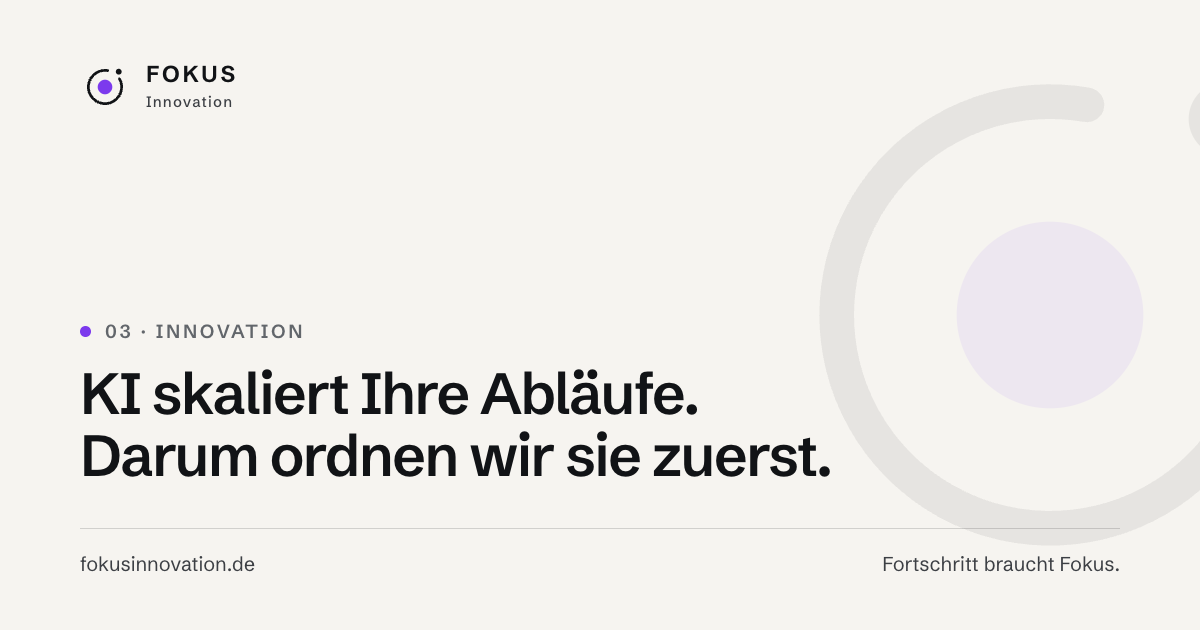
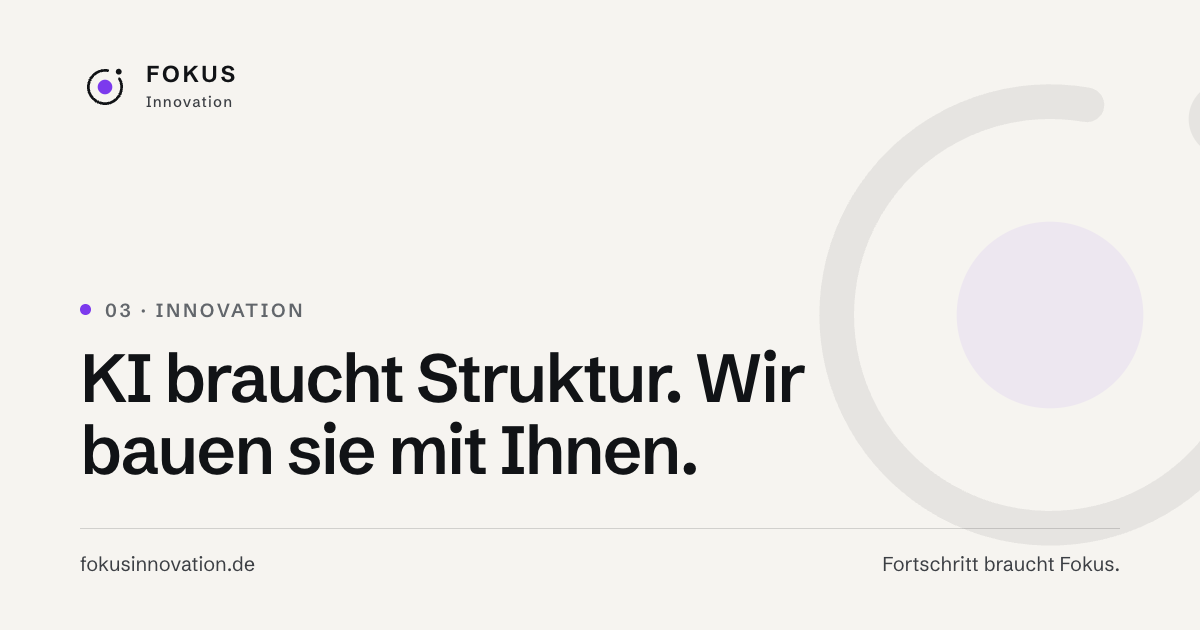
Website: Headlines nach Kevins Wahl (Startseite „Sichtbar sein. Planbar verkaufen.“, Innovation „KI braucht Struktur. Wir bauen sie mit Ihnen.“)

Changed region(s): [[0.0617, 0.4825, 0.7092, 0.754]]

diff --git a/prototype/fokus-innovation/innovation/index.html b/prototype/fokus-innovation/innovation/index.html
@@ -47,7 +47,7 @@
 </div></header>
 <main id="inhalt">
 <section class="held" aria-labelledby="held-titel"><div class="w held-raster">
-<div class="erscheint"><nav class="brotkrumen" aria-label="Brotkrumen"><a href="/">Start</a><span aria-hidden="true">/</span><span aria-current="page">Innovation</span></nav><p class="vorzeile mit-nr"><span class="nr">03</span>Innovation</p><h1 id="held-titel">KI skaliert Ihre Abläufe. Darum ordnen wir sie zuerst.</h1><p class="lead">Am Ende geht es um Ihre Abläufe: Routineaufgaben, Kommunikation, Angebote, Auswertungen. KI macht sie schneller, aber nur, wenn Struktur und Datenbasis stimmen. Sonst skaliert sie Fehler. Deshalb ordnen wir zuerst Abläufe und Daten, führen dann KI und neue Software ein und befähigen Ihr Team, bis es im Alltag läuft.</p><div class="knoepfe"><a class="knopf" href="/buchen/erstgespraech-c9a7127ad22839b329a01f06">Erstgespräch vereinbaren <svg class="pfeil" viewBox="0 0 24 24" fill="none" stroke="currentColor" stroke-width="2" stroke-linecap="round" stroke-linejoin="round" aria-hidden="true"><path d="M4 12h15M13 6l6 6-6 6"/></svg></a><a class="knopf zweit" href="/check?q=innovation_held">Innovations-Check starten <svg class="pfeil" viewBox="0 0 24 24" fill="none" stroke="currentColor" stroke-width="2" stroke-linecap="round" stroke-linejoin="round" aria-hidden="true"><path d="M4 12h15M13 6l6 6-6 6"/></svg></a></div></div>
+<div class="erscheint"><nav class="brotkrumen" aria-label="Brotkrumen"><a href="/">Start</a><span aria-hidden="true">/</span><span aria-current="page">Innovation</span></nav><p class="vorzeile mit-nr"><span class="nr">03</span>Innovation</p><h1 id="held-titel">KI braucht Struktur. Wir bauen sie mit Ihnen.</h1><p class="lead">Am Ende geht es um Ihre Abläufe: Routineaufgaben, Kommunikation, Angebote, Auswertungen. KI macht sie schneller, aber nur, wenn Struktur und Datenbasis stimmen. Sonst skaliert sie Fehler. Deshalb ordnen wir zuerst Abläufe und Daten, führen dann KI und neue Software ein und befähigen Ihr Team, bis es im Alltag läuft.</p><div class="knoepfe"><a class="knopf" href="/buchen/erstgespraech-c9a7127ad22839b329a01f06">Erstgespräch vereinbaren <svg class="pfeil" viewBox="0 0 24 24" fill="none" stroke="currentColor" stroke-width="2" stroke-linecap="round" stroke-linejoin="round" aria-hidden="true"><path d="M4 12h15M13 6l6 6-6 6"/></svg></a><a class="knopf zweit" href="/check?q=innovation_held">Innovations-Check starten <svg class="pfeil" viewBox="0 0 24 24" fill="none" stroke="currentColor" stroke-width="2" stroke-linecap="round" stroke-linejoin="round" aria-hidden="true"><path d="M4 12h15M13 6l6 6-6 6"/></svg></a></div></div>
 <aside class="weg-karte erscheint" aria-label="Der Weg"><p class="etikett">Der Weg mit uns</p><ol class="weg erscheint senkrecht" aria-label="Der Weg"><li class="station"><span class="etikett">Heute</span><b>Werkzeuge ausprobiert, Abläufe unklar, Daten verstreut</b></li><li class="station"><span class="etikett">Mit uns</span><b>Abläufe ordnen, Datenbasis aufbauen, KI einführen, Team befähigen</b></li><li class="station"><span class="etikett">Danach</span><b>KI übernimmt Routine, Abläufe laufen ohne die Geschäftsführung</b></li></ol></aside>
 </div></section>
 

diff --git a/prototype/fokus-innovation/index.html b/prototype/fokus-innovation/index.html
@@ -65,7 +65,7 @@
 </section>
 
 <section class="held start-held" id="einstieg" aria-labelledby="start-titel"><div class="w held-raster">
-<div class="start-titel erscheint"><p class="vorzeile">Agentur für Sichtbarkeit, Vertrieb und Innovation · Berlin</p><h1 id="start-titel">Gute Produkte verkaufen sich nicht von selbst.<span class="ruhig">Wir bauen Kommunikation und Vertrieb so auf, dass aus Aufmerksamkeit planbar Kunden werden.</span></h1></div>
+<div class="start-titel erscheint"><p class="vorzeile">Agentur für Sichtbarkeit, Vertrieb und Innovation · Berlin</p><h1 id="start-titel">Sichtbar sein. Planbar verkaufen.<span class="ruhig">Sichtbarkeit bringt Anfragen. Ein Vertrieb mit System macht Kunden daraus.</span></h1></div>
 <div class="erscheint"><p class="lead">Wir schärfen Ihre Botschaft, machen Sie über Website, Videos und Pressearbeit sichtbar und bauen den Vertrieb auf, der aus Anfragen planbar Kunden macht. Dazu führen wir KI und neue Software dort ein, wo sie Arbeit spart. Für Gründer, Unternehmer und Mittelstand mit 5 bis 50 Mitarbeitenden. Mit festen Preisen, festen Abläufen und einem Team, das selbst mit umsetzt.</p>
 <div class="knoepfe"><a class="knopf" href="/buchen/erstgespraech-c9a7127ad22839b329a01f06">Erstgespräch vereinbaren <svg class="pfeil" viewBox="0 0 24 24" fill="none" stroke="currentColor" stroke-width="2" stroke-linecap="round" stroke-linejoin="round" aria-hidden="true"><path d="M4 12h15M13 6l6 6-6 6"/></svg></a><a class="knopf zweit" href="/check?q=start_held">Innovations-Check, 10 Minuten <svg class="pfeil" viewBox="0 0 24 24" fill="none" stroke="currentColor" stroke-width="2" stroke-linecap="round" stroke-linejoin="round" aria-hidden="true"><path d="M4 12h15M13 6l6 6-6 6"/></svg></a></div></div>
 <nav class="index tueren erscheint" aria-label="Ihr Anliegen"><a href="#markt"><span class="nr">Innovation in den Markt</span><b>Wir haben ein starkes Produkt und brauchen Kunden.</b><span class="index-satz">Positionierung, Website, Videos und PR bringen Anfragen. Ein Vertrieb mit System macht Kunden daraus.</span><svg class="pfeil" viewBox="0 0 24 24" fill="none" stroke="currentColor" stroke-width="2" stroke-linecap="round" stroke-linejoin="round" aria-hidden="true"><path d="M4 12h15M13 6l6 6-6 6"/></svg></a><a href="#unternehmen"><span class="nr">Innovation ins Unternehmen bringen</span><b>Wir wollen KI und neue Software im Alltag nutzen, nicht nur ausprobieren.</b><span class="index-satz">Erst Abläufe und Daten ordnen, dann KI einführen, bis Ihr Team damit arbeitet.</span><svg class="pfeil" viewBox="0 0 24 24" fill="none" stroke="currentColor" stroke-width="2" stroke-linecap="round" stroke-linejoin="round" aria-hidden="true"><path d="M4 12h15M13 6l6 6-6 6"/></svg></a></nav>
